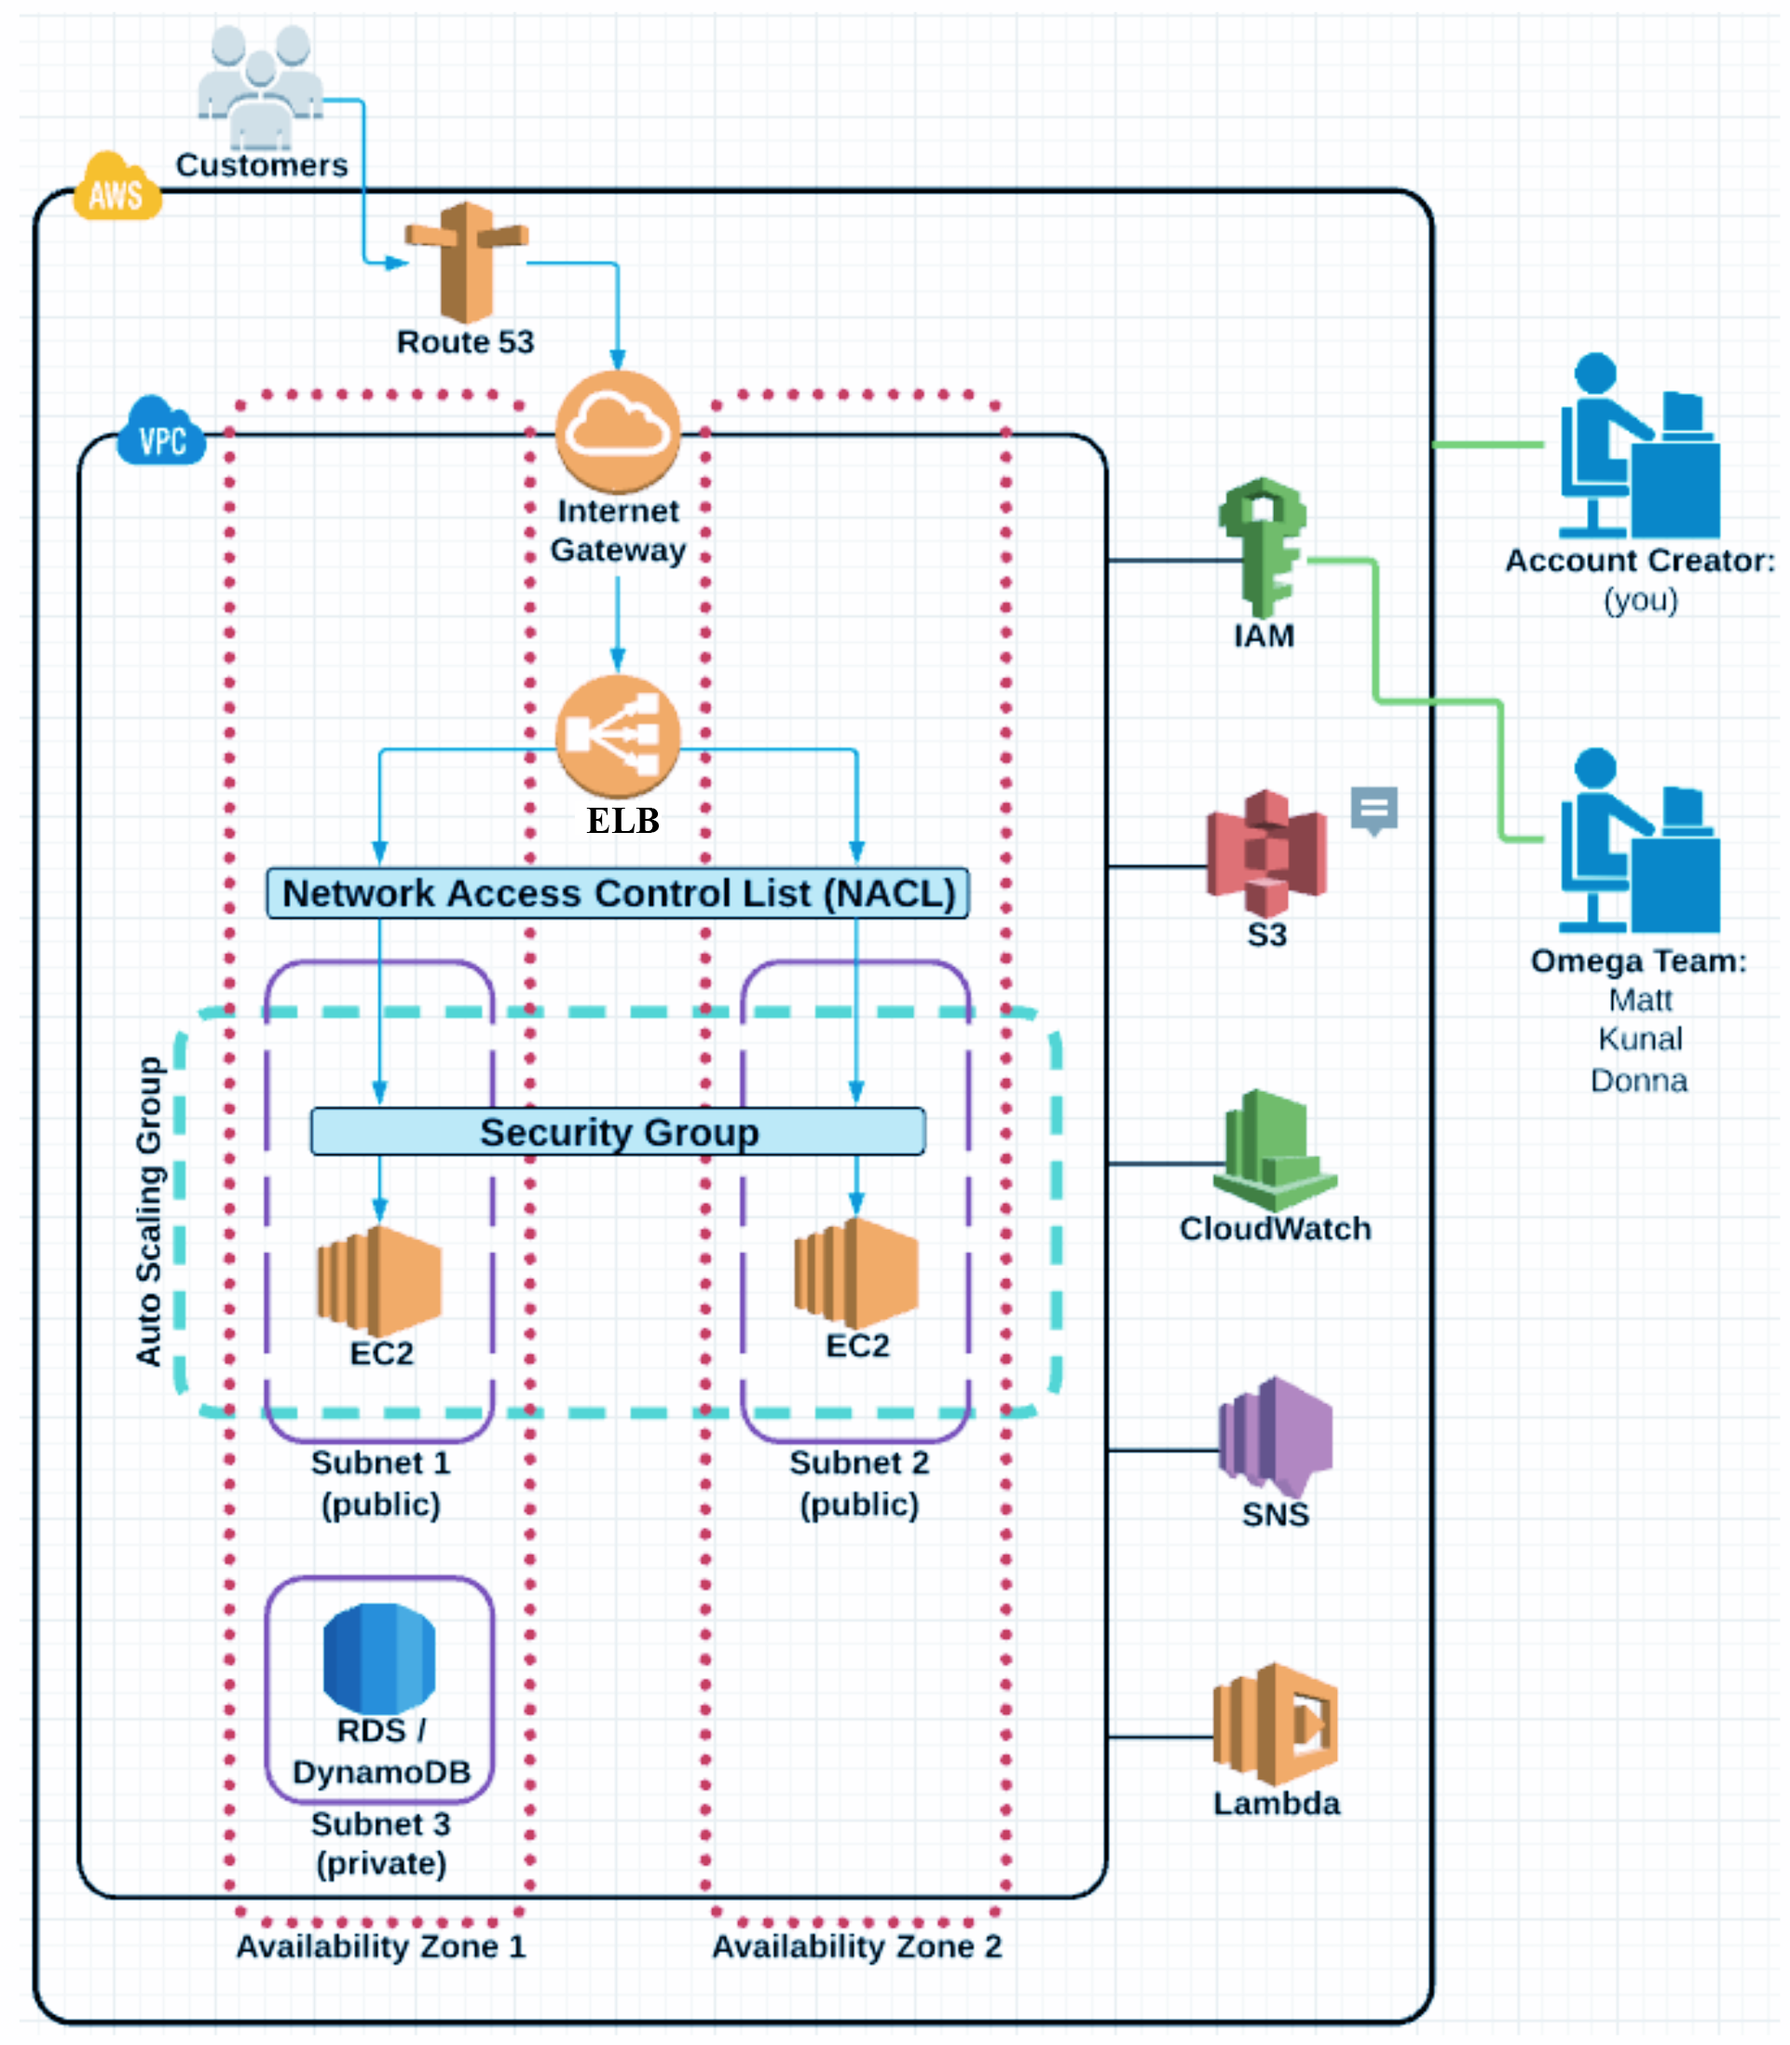
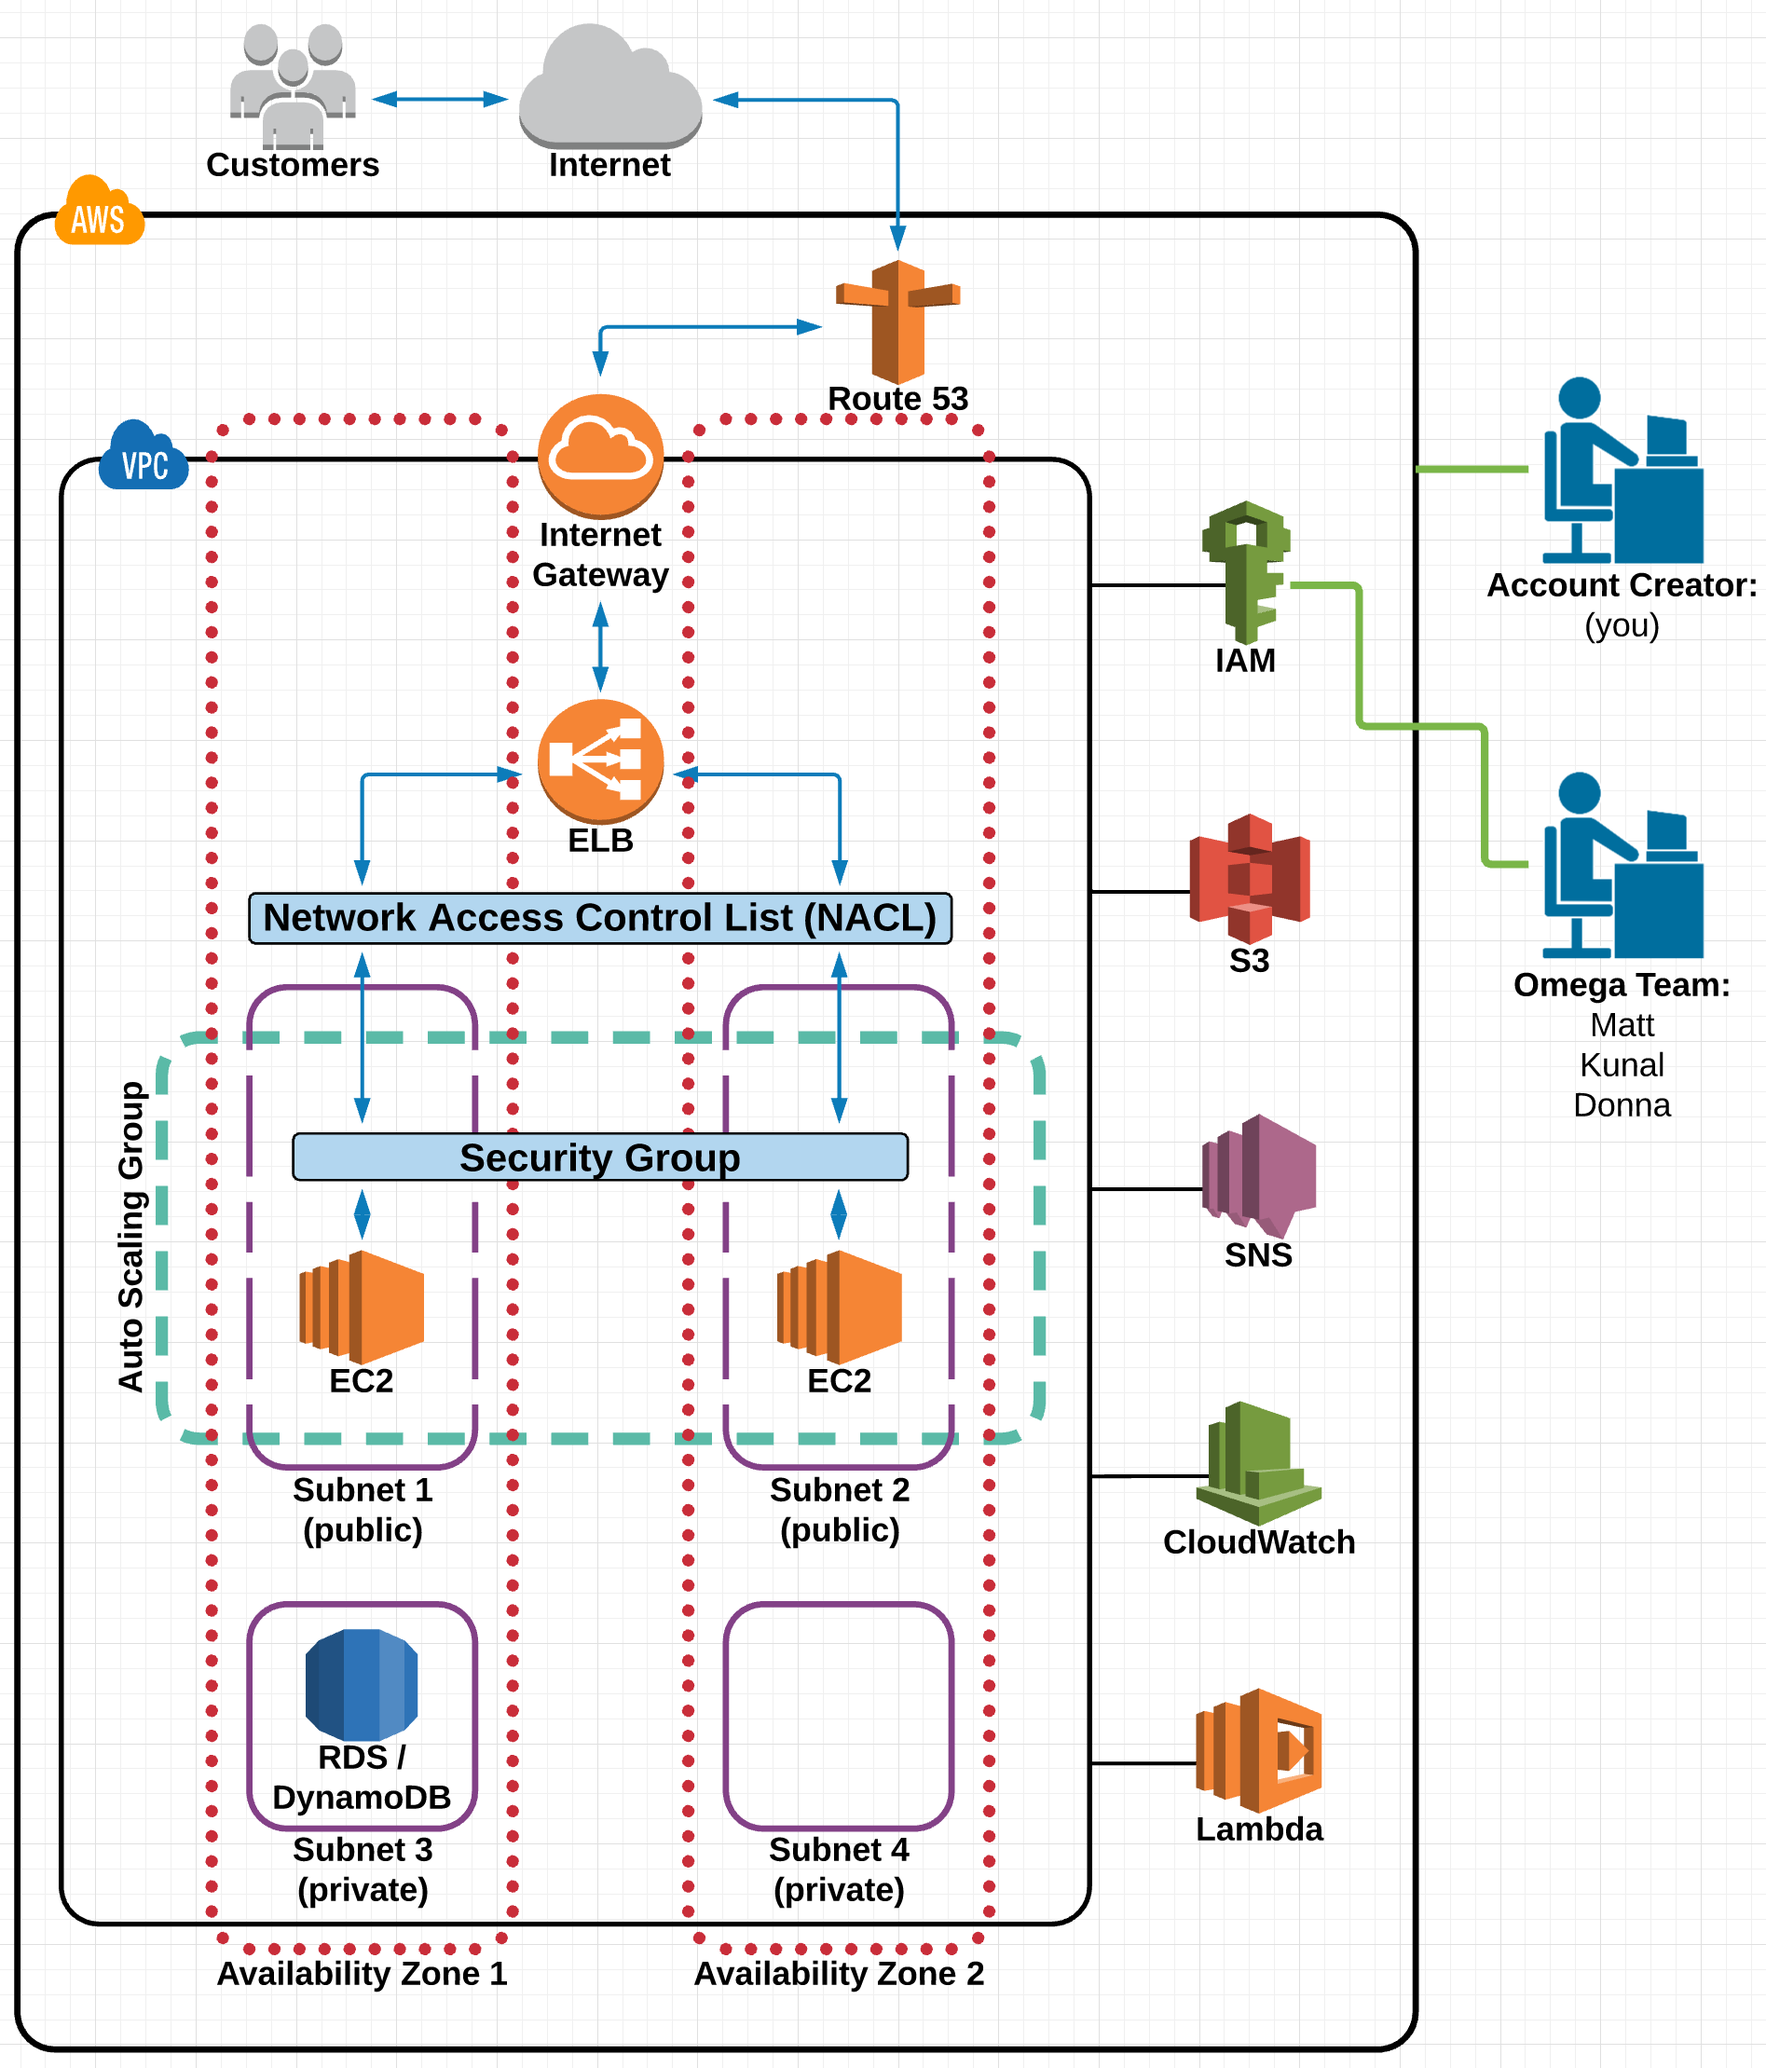
docs: What is a VPC (#4)
* docs: What is a VPC

* resize image

* resize image

* clean up

* formatted

* standard components

* new line

* cleanup

* format

* vpc-dashboard

* vpc-dashboard

* vpc-dashboard

* image size

* big-picture

* image size

* vpc-dashboard

Changed region(s): [[0.0, 0.0, 0.9963, 1.0], [0.4359, 0.3408, 0.467, 0.3718], [0.2179, 0.3408, 0.2491, 0.3718]]

diff --git a/01-vpc-essentials/README.md b/01-vpc-essentials/README.md
@@ -8,8 +8,8 @@
 
 
 - [AWS Global Infrastructure](#aws-global-infrastructure)
-- [What is a VPC?](#what-is-a-vpc)
-- [Internet Gateways (IGW)](#internet-gateways-igw)
+- [Virtual Private Cloud (VPC)](#virtual-private-cloud-vpc)
+- [Internet Gateways (IGWs)](#internet-gateways-igws)
 - [Route Tables (RTs)](#route-tables-rts)
 - [Network Access Control Lists (NACLs)](#network-access-control-lists-nacls)
 - [Subnets](#subnets)
@@ -24,13 +24,29 @@
 - **Regions** are comprised of multiple **Availability Zones**.
 - **Availability Zones** (AZs) are where separate, physical **AWS Data Centers** are located.
 
-<div align="center"><img src="assets/aws-region.png" width="540"></div>
+<div align="center"><img src="assets/aws-region.png" width="520"></div>
 
 
-## What is a VPC?
+## Virtual Private Cloud (VPC)
+
+<div align="center"><img src="assets/vpc.png" width="500"></div>
+<br/>
+
+When creating an AWS account, a **Default VPC** is created for us, including the standard components that are needed make it functional:
+
+1. An **Internet Gateway**.
+1. A **Route Table** with predefined routes to the default subnets.
+1. A **Network Access Control List** with predefined rules for access.
+1. **Subnets** to provision AWS resources in (such as **EC2 Instances**).
+
+<div align="center">
+  <img src="assets/vpc-dashboard.png" width="600">
+  <br/>
+  <em>VPC Dashboard</em>
+</div>
 
 
-## Internet Gateways (IGW)
+## Internet Gateways (IGWs)
 
 
 ## Route Tables (RTs)
